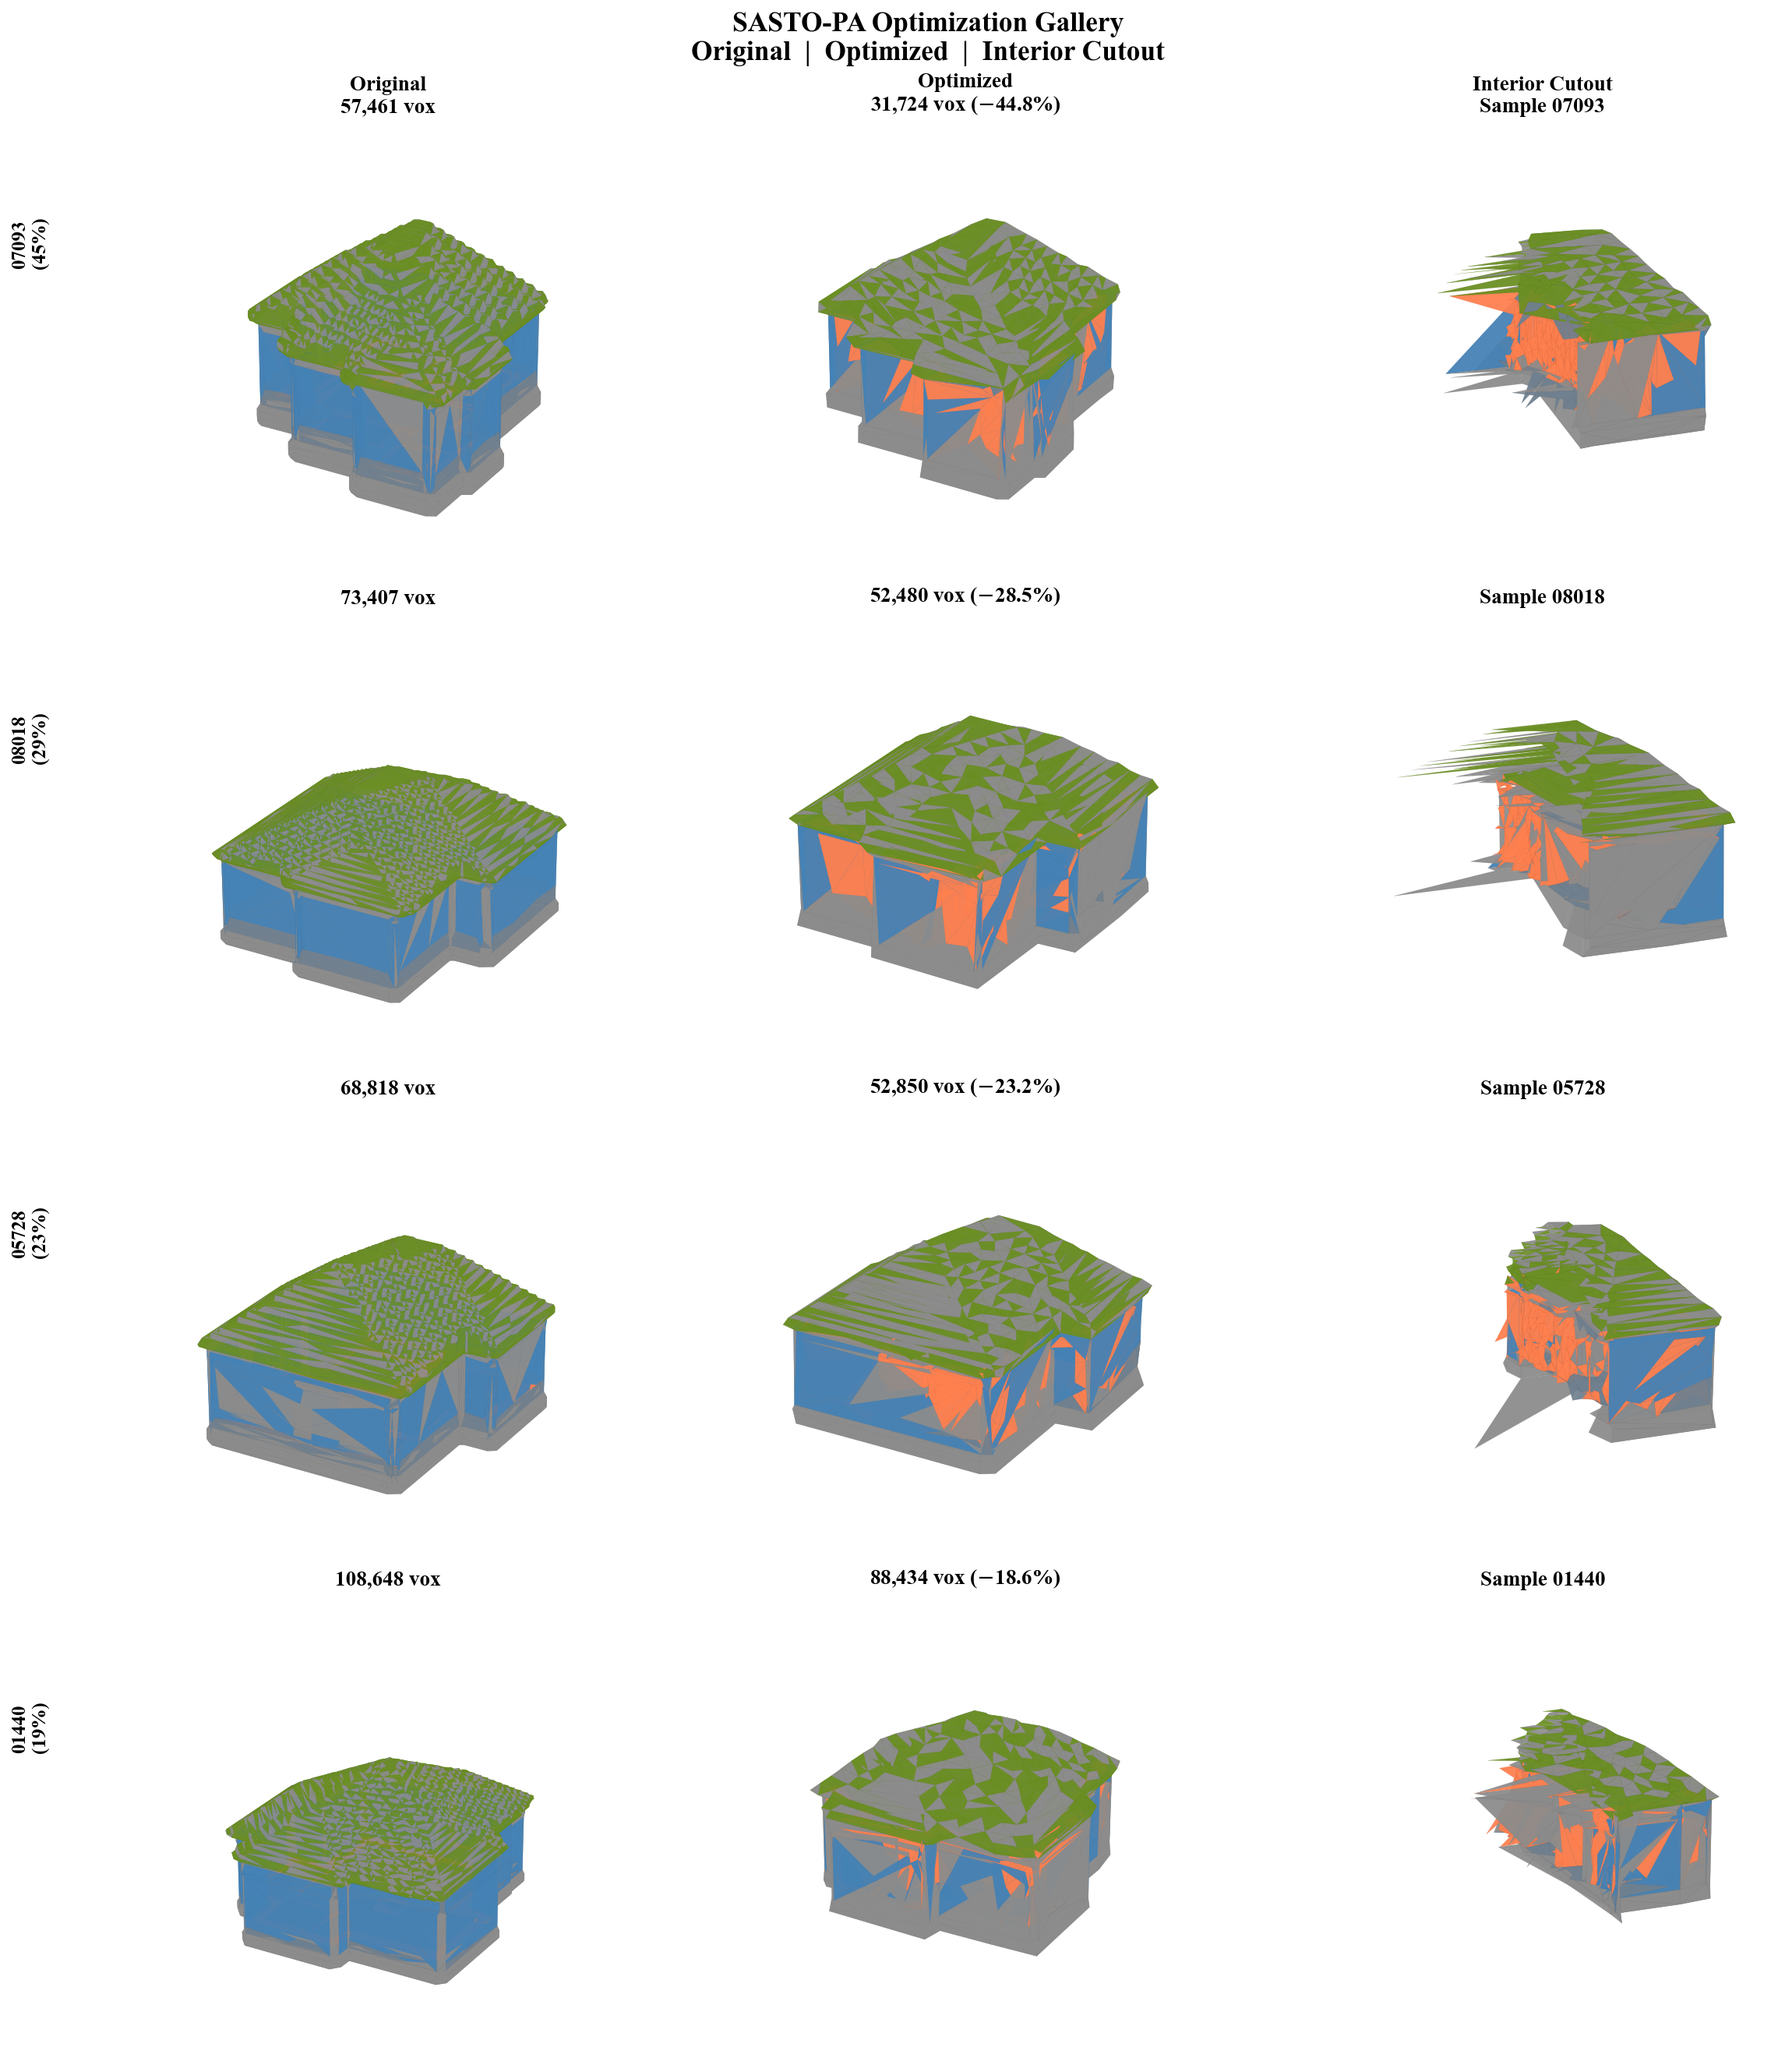
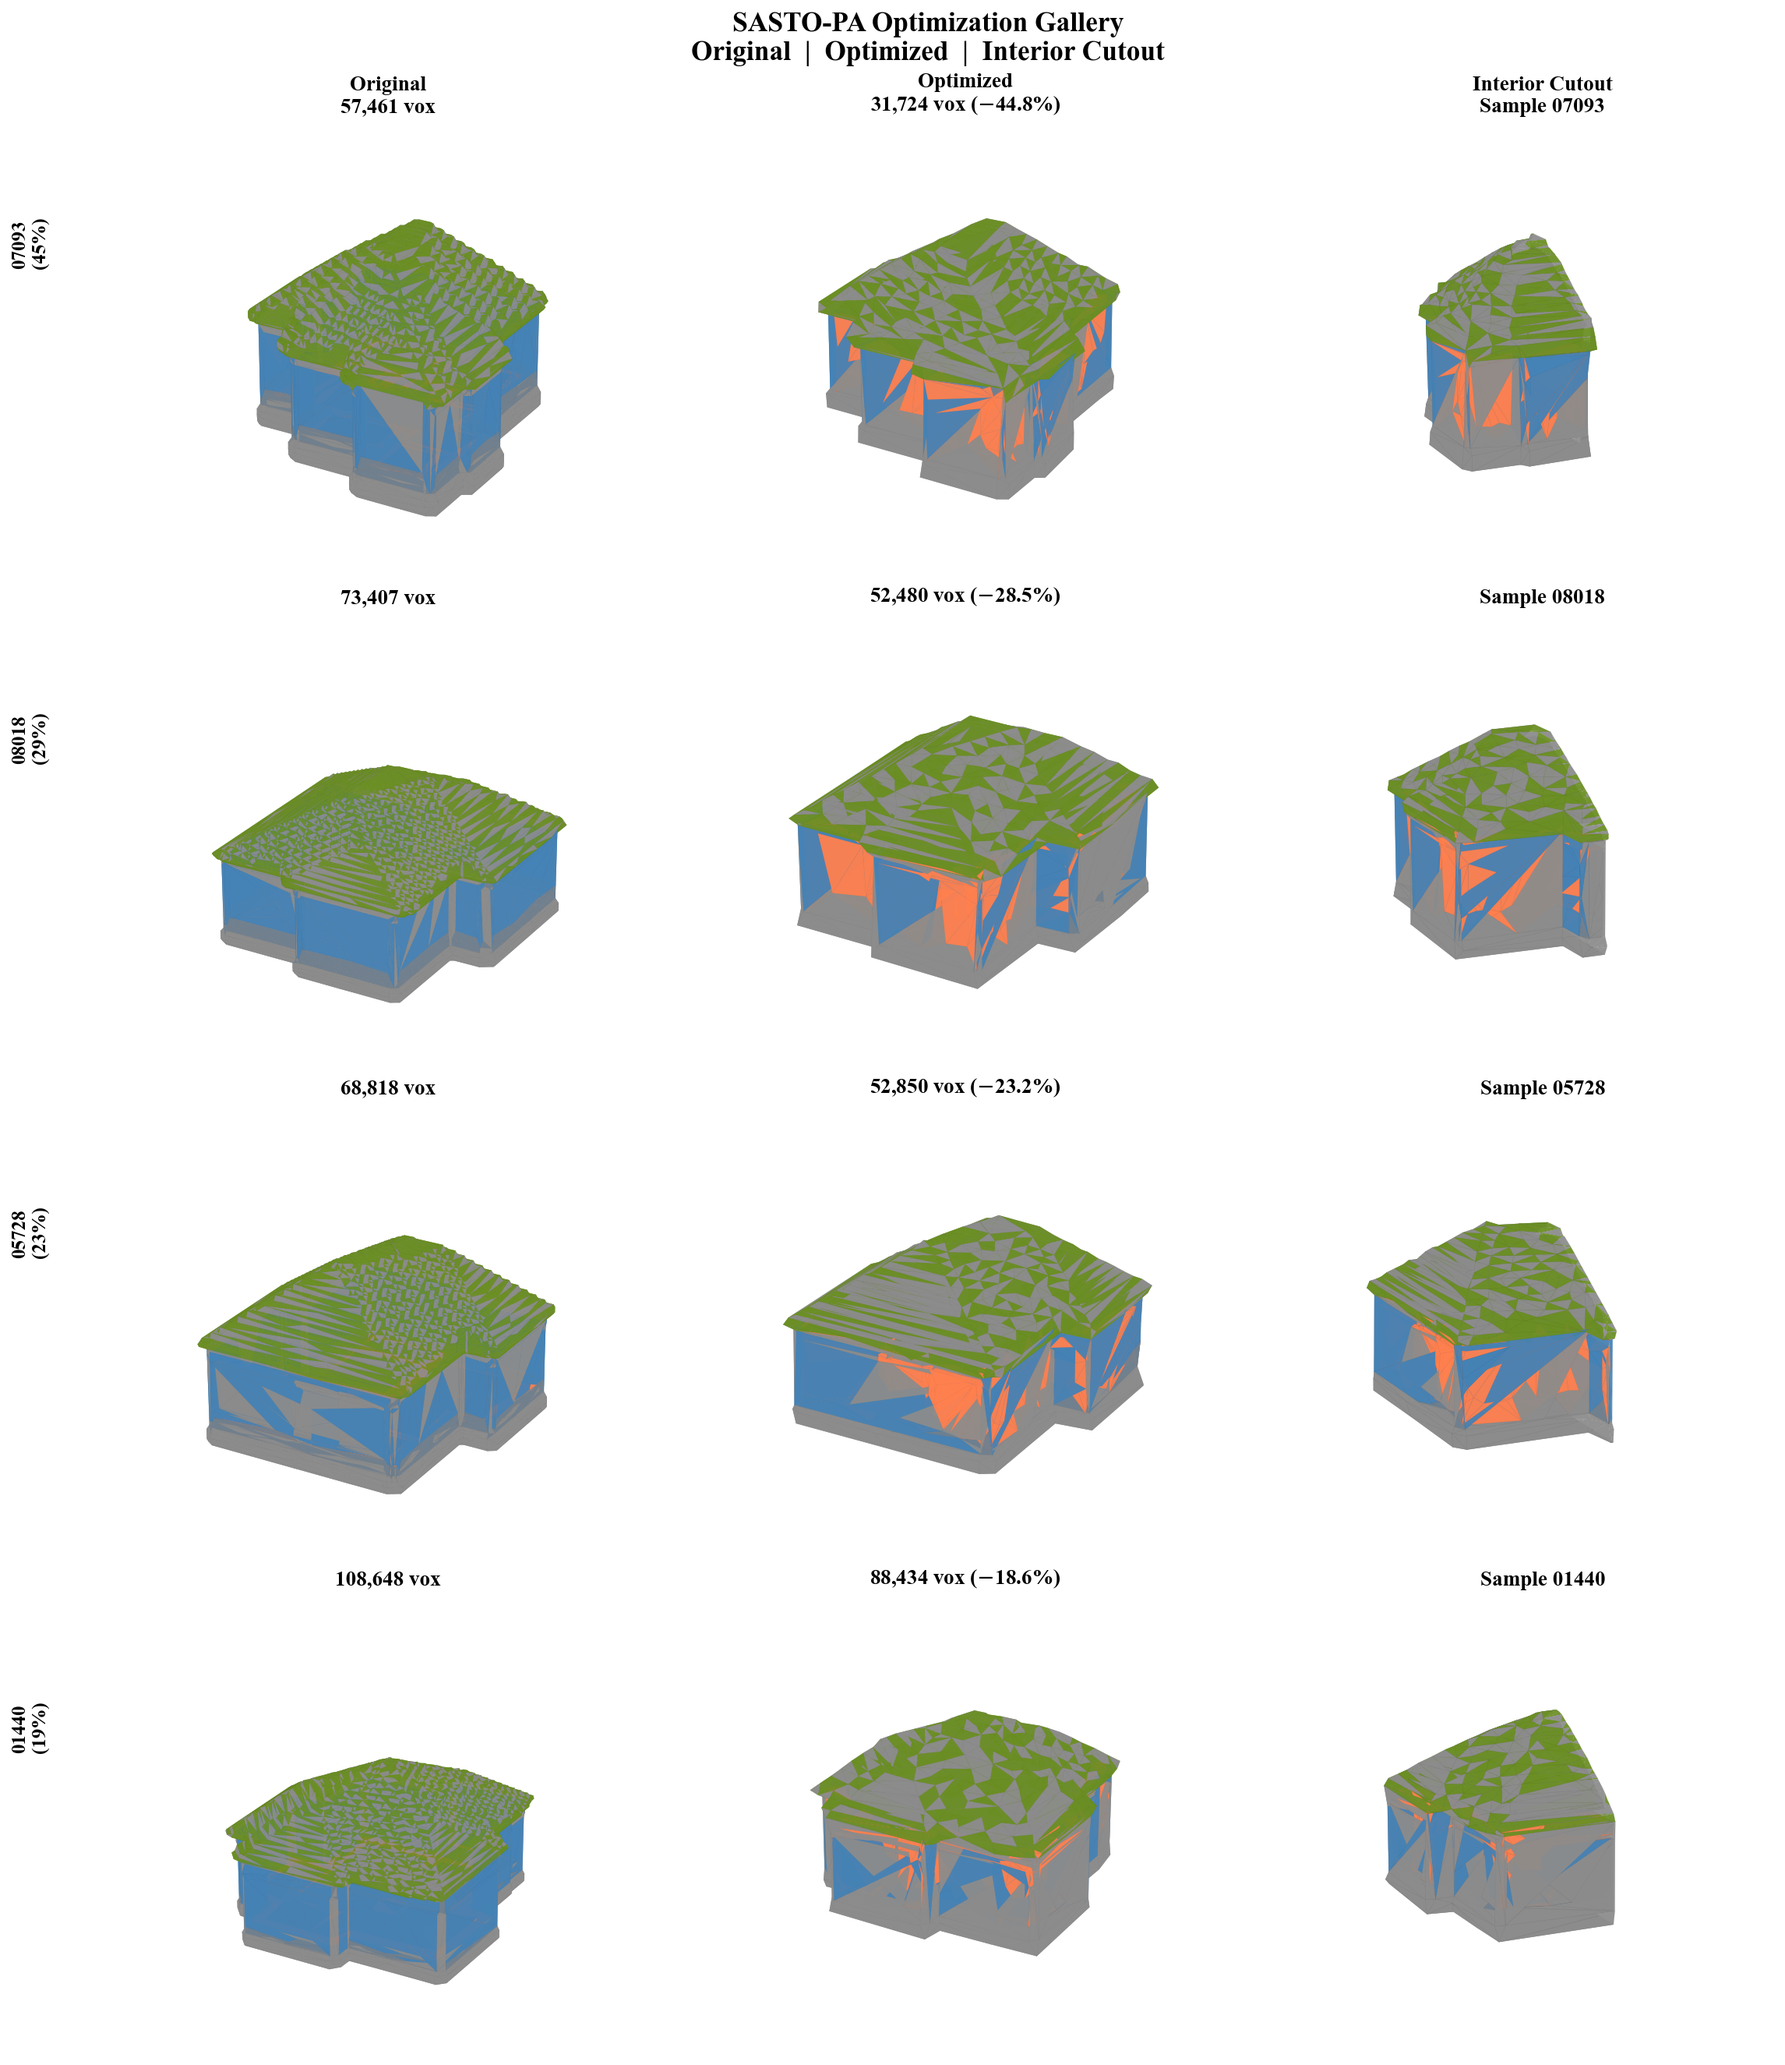
Zero-blur optimized meshes + clean slice_plane cutaways
- blur_sigma=0.0 for all optimized meshes (was 0.1): preserves raw voxel
  surface detail so optimization changes (holes, thinned walls) are visible
- Replace centroid-based face filtering with trimesh.slice_plane() for
  cutaway views: produces geometrically clean planar cuts with no shards
- Regenerated all 5 affected figures

diff --git a/regenerate_figures.py b/regenerate_figures.py
@@ -213,39 +213,44 @@ def render_mesh(ax, mesh, elev=25, azim=-60, color_by='height', alpha=0.95,
 def render_cutout(ax, mesh, cut_axis='y', cut_frac=0.5, elev=20, azim=-30,
                   color_by='cutout', alpha=0.95, target_faces=10000,
                   title=None, title_size=13, part_labels=None):
-    """Render a cutout view — clip mesh at *cut_frac* to reveal interior.
+    """Render a cutout view — use trimesh.slice_plane for a clean planar cut.
     If *part_labels* is provided, faces are coloured by structural part."""
     render_m = decimate_mesh(mesh, target_faces)
-    verts = render_m.vertices.copy()
-    faces = render_m.faces
+
+    # --- clean planar slice (no shards) ---
+    axis_map = {'x': 0, 'y': 1, 'z': 2}
+    axis_idx = axis_map[cut_axis]
+    v_min = render_m.vertices[:, axis_idx].min()
+    v_max = render_m.vertices[:, axis_idx].max()
+    cut_val = v_min + cut_frac * (v_max - v_min)
+
+    plane_origin = np.zeros(3)
+    plane_origin[axis_idx] = cut_val
+    plane_normal = np.zeros(3)
+    plane_normal[axis_idx] = -1.0          # keep the +axis half
+
+    try:
+        sliced = render_m.slice_plane(plane_origin, plane_normal)
+    except Exception:
+        return
+    if sliced is None or len(sliced.faces) == 0:
+        return
+
+    verts = sliced.vertices.copy()
+    faces = sliced.faces
 
     # Part colours in original voxel space (before centering)
     if part_labels is not None:
         centroids_orig = verts[faces].mean(axis=1)
-        all_colors = get_part_face_colors(centroids_orig, part_labels, alpha)
+        colors = get_part_face_colors(centroids_orig, part_labels, alpha)
     else:
-        all_colors = None
+        colors = None
 
-    center = verts.mean(axis=0)
+    center = render_m.vertices.mean(axis=0)
     verts -= center
 
-    axis_map = {'x': 0, 'y': 1, 'z': 2}
-    axis_idx = axis_map[cut_axis]
-    v_min = verts[:, axis_idx].min()
-    v_max = verts[:, axis_idx].max()
-    cut_val = v_min + cut_frac * (v_max - v_min)
-
-    centroids = verts[faces].mean(axis=1)
-    mask = centroids[:, axis_idx] > cut_val
-    faces = faces[mask]
-
-    if len(faces) == 0:
-        return
-
     triangles = verts[faces]
-    if all_colors is not None:
-        colors = all_colors[mask]
-    else:
+    if colors is None:
         colors = get_colors(faces, triangles, color_by, alpha)
 
     edge_colors = colors.copy()
@@ -337,7 +342,7 @@ def export_stl_files():
             continue
 
         base_mesh = voxels_to_mesh_clean(base_occ.copy(), blur_sigma=0.4)
-        opt_mesh = voxels_to_mesh_clean(opt_occ.copy(), blur_sigma=0.1)
+        opt_mesh = voxels_to_mesh_clean(opt_occ.copy(), blur_sigma=0.0)
 
         base_mesh.export(str(STL_DIR / f"{sid}_original.stl"))
         opt_mesh.export(str(STL_DIR / f"{sid}_optimized.stl"))
@@ -373,8 +378,8 @@ def generate_cross_section_figure():
     FACES = 5000
     print("  Pre-decimating meshes...")
     base_mesh = decimate_mesh(voxels_to_mesh_clean(base_occ.copy(), blur_sigma=0.4), FACES)
-    v12_mesh = decimate_mesh(voxels_to_mesh_clean(v12_occ.copy(), blur_sigma=0.1), FACES)
-    v11_mesh = decimate_mesh(voxels_to_mesh_clean(v11_occ.copy(), blur_sigma=0.1), FACES)
+    v12_mesh = decimate_mesh(voxels_to_mesh_clean(v12_occ.copy(), blur_sigma=0.0), FACES)
+    v11_mesh = decimate_mesh(voxels_to_mesh_clean(v11_occ.copy(), blur_sigma=0.0), FACES)
     print(f"  Decimated to: {len(base_mesh.faces)}, {len(v12_mesh.faces)}, {len(v11_mesh.faces)} faces")
 
     # LARGE figure to fill page
@@ -473,7 +478,7 @@ def generate_diverse_stl_gallery():
 
         # Low blur for optimised mesh → visible holes / thinning
         base_mesh = voxels_to_mesh_clean(base_occ.copy(), blur_sigma=0.4)
-        opt_mesh = voxels_to_mesh_clean(opt_occ.copy(), blur_sigma=0.1)
+        opt_mesh = voxels_to_mesh_clean(opt_occ.copy(), blur_sigma=0.0)
 
         # Load part labels
         part_labels = None
@@ -565,9 +570,9 @@ def generate_failure_gallery():
         if base_occ is None or opt_occ is None:
             continue
 
-        # Low blur for optimised mesh → visible holes / thinning
+        # No blur for optimised mesh → visible holes / thinning
         base_mesh = voxels_to_mesh_clean(base_occ.copy(), blur_sigma=0.4)
-        opt_mesh = voxels_to_mesh_clean(opt_occ.copy(), blur_sigma=0.1)
+        opt_mesh = voxels_to_mesh_clean(opt_occ.copy(), blur_sigma=0.0)
 
         # Load part labels
         part_labels_local = None

diff --git a/generate_house_figures.py b/generate_house_figures.py
@@ -218,38 +218,46 @@ def render_mesh(ax, mesh, elev=25, azim=-60, color_by='height', alpha=0.95,
 def render_cutout(ax, mesh, cut_axis='y', cut_frac=0.5, elev=20, azim=-30,
                   color_by='cutout', alpha=0.95, target_faces=10000,
                   title=None, title_size=13, part_labels=None):
-    """Render interior cutout — clip mesh at 50 % to expose the inside.
+    """Render interior cutout — use trimesh.slice_plane for a clean planar cut.
     If *part_labels* is provided, faces are coloured by structural part."""
     render_m = decimate_mesh(mesh, target_faces)
-    verts = render_m.vertices.copy()
-    faces = render_m.faces
+
+    # --- clean planar slice (no shards) ---
+    axis_map = {'x': 0, 'y': 1, 'z': 2}
+    axis_idx = axis_map[cut_axis]
+    v_min = render_m.vertices[:, axis_idx].min()
+    v_max = render_m.vertices[:, axis_idx].max()
+    cut_val = v_min + cut_frac * (v_max - v_min)
+
+    # plane_normal points in +axis direction; slice_plane keeps the side the
+    # normal points AWAY from, i.e. the side > cut_val
+    plane_origin = np.zeros(3)
+    plane_origin[axis_idx] = cut_val
+    plane_normal = np.zeros(3)
+    plane_normal[axis_idx] = -1.0          # keep the +axis half
+
+    try:
+        sliced = render_m.slice_plane(plane_origin, plane_normal)
+    except Exception:
+        return
+    if sliced is None or len(sliced.faces) == 0:
+        return
+
+    verts = sliced.vertices.copy()
+    faces = sliced.faces
 
     # Part colours in original voxel space (before centering)
     if part_labels is not None:
         centroids_orig = verts[faces].mean(axis=1)
-        all_colors = get_part_face_colors(centroids_orig, part_labels, alpha)
+        colors = get_part_face_colors(centroids_orig, part_labels, alpha)
     else:
-        all_colors = None
+        colors = None
 
-    center = verts.mean(axis=0)
+    center = render_m.vertices.mean(axis=0)   # use full-mesh center for consistency
     verts -= center
 
-    axis_map = {'x': 0, 'y': 1, 'z': 2}
-    axis_idx = axis_map[cut_axis]
-    v_min = verts[:, axis_idx].min()
-    v_max = verts[:, axis_idx].max()
-    cut_val = v_min + cut_frac * (v_max - v_min)
-
-    centroids = verts[faces].mean(axis=1)
-    mask = centroids[:, axis_idx] > cut_val
-    faces = faces[mask]
-    if len(faces) == 0:
-        return
-
     triangles = verts[faces]
-    if all_colors is not None:
-        colors = all_colors[mask]
-    else:
+    if colors is None:
         colors = get_colors(len(faces), triangles, color_by, alpha)
 
     edge_colors = colors.copy()
@@ -260,7 +268,9 @@ def render_cutout(ax, mesh, cut_axis='y', cut_frac=0.5, elev=20, azim=-30,
                             edgecolors=edge_colors, linewidths=0.15)
     ax.add_collection3d(poly)
 
-    extents = np.abs(verts).max(axis=0) * 1.05
+    # Use full-mesh extents so camera framing matches sibling panels
+    full_verts = render_m.vertices - center
+    extents = np.abs(full_verts).max(axis=0) * 1.05
     ax.set_xlim(-extents[0], extents[0])
     ax.set_ylim(-extents[1], extents[1])
     ax.set_zlim(-extents[2], extents[2])
@@ -276,8 +286,8 @@ def load_sample_meshes(sample_id):
 
     Returns (base_mesh, opt_mesh, part_labels).
     *part_labels* is the 3-D integer part-label grid (or None).
-    The optimized mesh uses blur_sigma=0.1 so that voxel-level
-    optimisation (holes, thinned walls) is clearly visible.
+    The optimized mesh uses blur_sigma=0.0 (no smoothing) so that
+    voxel-level optimisation (holes, thinned walls) is clearly visible.
     """
     # Baseline
     base_path = DATA_DIR / sample_id / "occ.npz"
@@ -298,7 +308,7 @@ def load_sample_meshes(sample_id):
         part_labels = np.load(part_path)['data']
 
     base_mesh = voxels_to_mesh(base_occ, blur_sigma=0.4)
-    opt_mesh = voxels_to_mesh(opt_occ, blur_sigma=0.1)
+    opt_mesh = voxels_to_mesh(opt_occ, blur_sigma=0.0)
     return base_mesh, opt_mesh, part_labels
 
 
@@ -408,8 +418,8 @@ def generate_type_comparison():
 
     # Low blur for optimized meshes → preserves holes / thinned walls
     base_mesh = voxels_to_mesh(base_occ, blur_sigma=0.4)
-    v11_mesh = voxels_to_mesh(v11_occ, blur_sigma=0.1)
-    v12_mesh = voxels_to_mesh(v12_occ, blur_sigma=0.1)
+    v11_mesh = voxels_to_mesh(v11_occ, blur_sigma=0.0)
+    v12_mesh = voxels_to_mesh(v12_occ, blur_sigma=0.0)
 
     # Pre-decimate once
     FACES = 5000
